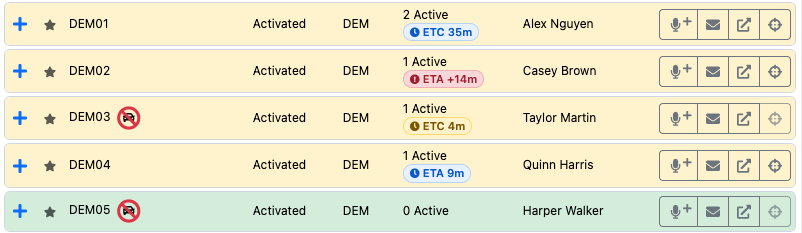
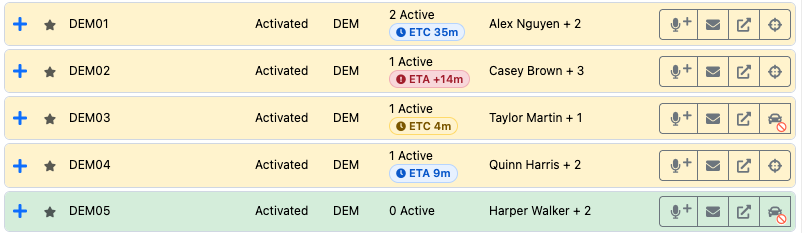
Sync preview docs from NSWSESMembers/Lighthouse@3f2eb65 (master-dev)

diff --git a/preview/guides/lad/team-register.md b/preview/guides/lad/team-register.md
@@ -10,10 +10,10 @@ The Team Register is in the top left of LAD. It lists all filtered teams. Each r
 - Callsign
 - Status
 - HQ (assigned HQ)
-- Task count: current active taskings (Tasked, Enroute, Onsite and Offsite), with the team's soonest [ETA or ETC](tasking.md#arrival-and-completion-times) underneath
-- Team leader
+- Tasking: current active taskings (Tasked, Enroute, Onsite and Offsite), with the team's soonest [ETA or ETC](tasking.md#arrival-and-completion-times) underneath
+- Members: the team leader and how many others are on the team, e.g. Alex Nguyen + 4
 
-Sort by Callsign, Status, HQ or Task Count by clicking the column heading; click again to swap between ascending and descending.
+Sort by Callsign, Status, HQ or Tasking by clicking the column heading; click again to swap between ascending and descending.
 
 ![Team Register](images/team-register.png)
 
@@ -53,6 +53,7 @@ Every team row has four action buttons, whether or not the team is expanded:
 Click anywhere on a team row (or the **+** at its left) to expand it; click again to collapse it. Expanding a team reloads its details and taskings from Beacon. Everything in this section is only shown once a team is expanded:
 
 - [Team Members](#team-members), including the team leader
+- [Team Capabilities](#team-capabilities), how many members hold each one
 - [Matched Assets](#matched-assets), the radios and satellite trackers tracked against the team
 - [Team Taskings](#team-taskings), with actions for each tasking
 
@@ -69,6 +70,14 @@ The expanded view lists the team's members, including the team leader.
 Show or hide member capabilities with the tags icon to the right of the **Members** heading. Hidden by default; LAD remembers your choice.
 
 ![Member capability toggle](images/team-member-capability-toggle.png)
+
+### Team Capabilities
+
+The **Team Capabilities** box across the top of the expanded view counts how many of the team's members hold each capability, such as **2 Storm Heights**, so you can see what a team can do without opening each member. Each member is counted at their highest level. A count labelled **only**, such as **1 Storm Ground only**, is the members at just that level, so anyone with Storm Heights isn't included in it even if they also hold Storm Ground.
+
+This applies to Storm Ground and Heights, Chainsaw L1 and L2, FR Land Based and FR On Water or FR In Water, Boat Operator and FR On Water, High Clearance Vehicle levels, Driver levels, Job Ready, Field Foundations and Field Operator, and the Beacon access levels. Anyone with a technical capability, such as a storm, chainsaw, rescue or land search accreditation, isn't counted under Field Operator, Field Foundations or Job Ready. Driver levels are also counted at the highest level, but aren't labelled **only**. All other capabilities are counted separately, including FR On Water and FR In Water.
+
+Click **Team Capabilities** to collapse the box, and again to open it. LAD remembers your choice for every team, including after a reload.
 
 ### Matched Assets
 

diff --git a/preview/whats-new/index.md b/preview/whats-new/index.md
@@ -18,6 +18,28 @@ section of the LAD guide with a full /preview/guides/lad/... URL.
 The home page shows the first three `##` entries, so keep the title short.
 -->
 
+## LAD on phones
+
+*11 November 2026*
+
+- **Team callsigns stay visible on narrow screens.** On a phone, the callsign column in the [Team Register](/preview/guides/lad/team-register.html) had been squeezed to nothing. It now keeps its space, and long callsigns wrap. When the list is narrow, the task count is just the number (**2** rather than **2 Active**), the status is shortened (**Act**, **Stby**, **Alert**, **Rest**, **Down**; hover for the full name) and the team's action buttons move into a **⋮** menu.
+- **The Incident Register fits on a phone.** It no longer runs off the side of the screen. When the list is narrow, the received time and date sit under the incident number, and the status is shortened (**Act (0)**, **Tskd**, **Ack**, **Ref**, **Comp**, **Fin**, **Canc**, **Rej**; hover for the full name). See the [Incident Register](/preview/guides/lad/incident-register.html).
+- **Members beside Team Capabilities.** On a phone or an iPad in portrait, an expanded team shows Members next to Team Capabilities. Collapsing Team Capabilities puts Members next to Matched Assets instead.
+- **The Configuration screen and Trackable Assets Library work on a phone.** Both open full screen and fit without scrolling sideways. In the Configuration screen the sections are one row you swipe along. In the library, each asset's details sit under its callsign, and on an iPad in portrait the library uses the full width.
+
+## Team capabilities in LAD
+
+*10 November 2026*
+
+- **See what a team can do at a glance.** Expanding a team in the Team Register now shows a [Team Capabilities](/preview/guides/lad/team-register.html#team-capabilities) box counting how many members hold each capability. Each member counts at their highest level, so a count such as **Storm Ground only** leaves out anyone with Storm Heights.
+- **Members column in the Team Register.** The Team Leader column is now Members and shows the team leader and how many others are on the team, such as Alex Nguyen + 4.
+
+## Non-Incident Task Card hours
+
+*10 November 2026*
+
+- **Summed hours are back on Non-Incident Task Cards.** The total of all participants' hours shows beside the duration at the top of a task card again. It had stopped appearing after a change to Beacon's page layout.
+
 ## Closer map zoom in LAD
 
 *9 November 2026*
